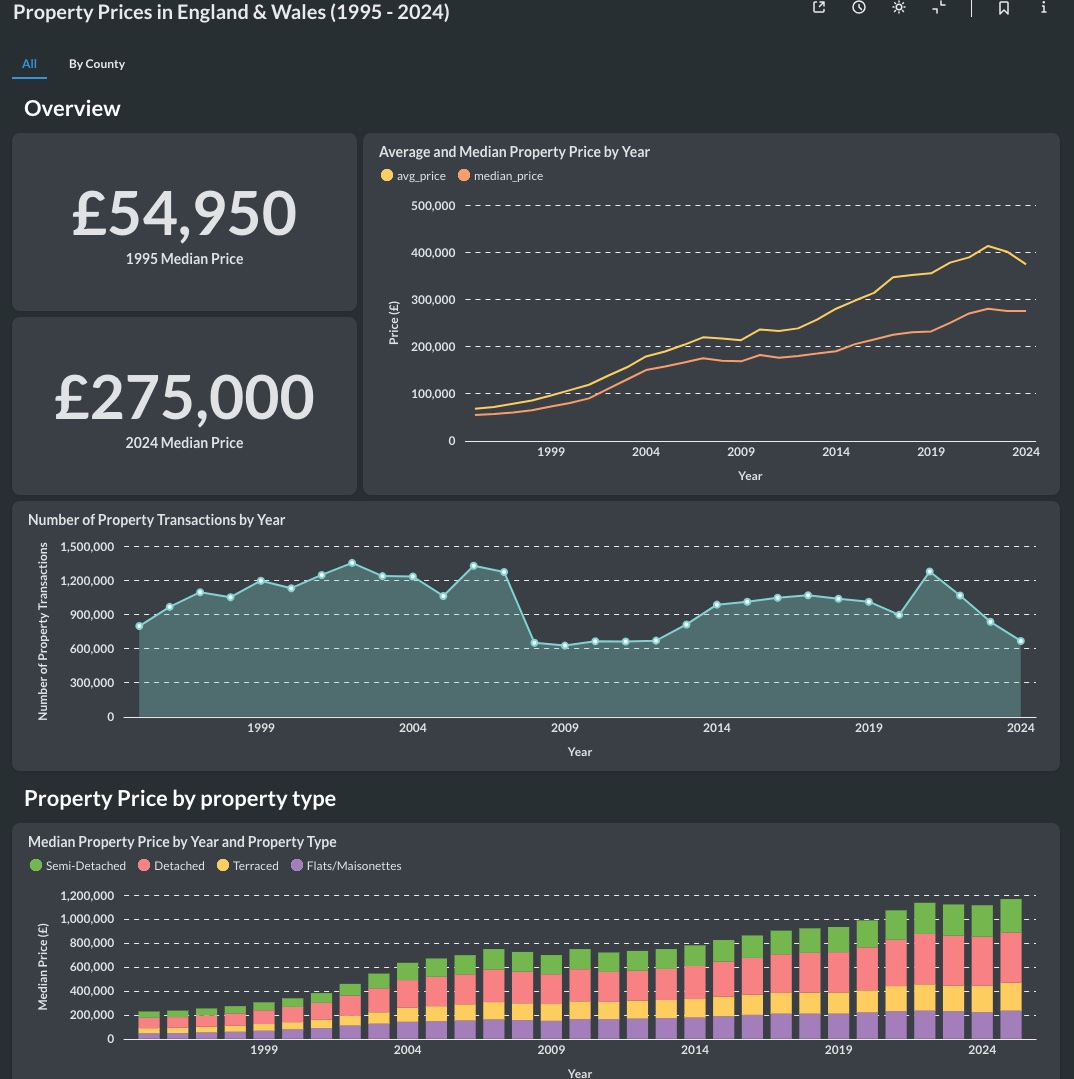
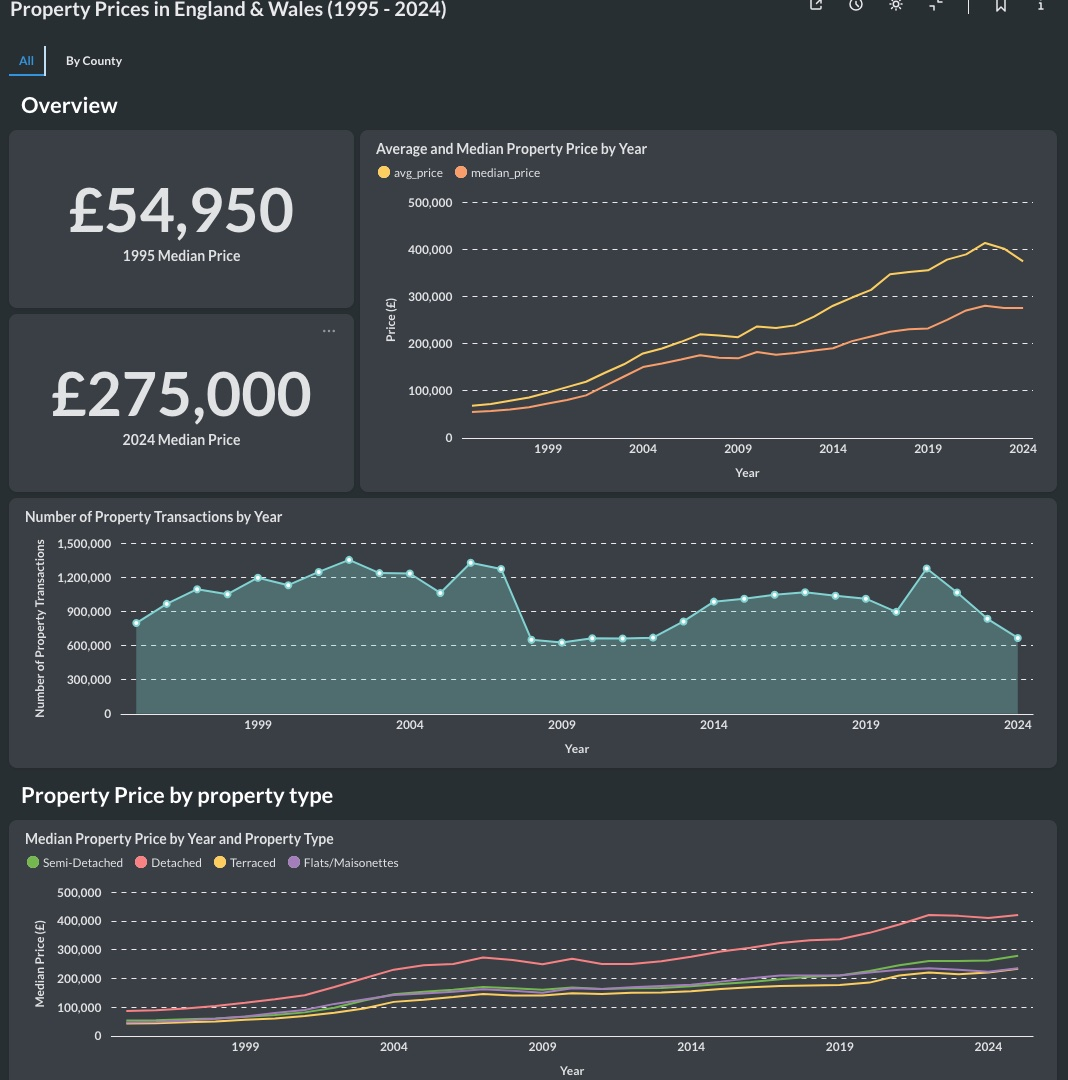
[dezc-housing] - change visualisation type from bar to line

diff --git a/03_visualisation/sql_queries.md b/03_visualisation/sql_queries.md
@@ -4,7 +4,7 @@ This is an overview of the Questions/SQL queries I created with Metabase's nativ
 
 I created two tabs on my dashboard: one that showed metrics for properties in England and Wales over the last 30 years and another that showed the same information filtered by location (County). Both dashboards contain the same tiles: the only difference between them is the filtering.
 
-**Before writing your SQL queries in the editor, M=make sure you have the correct database i.e. `Property Prices` (or whatever `Display Name` value you used during the BigQuery database connection setup).**
+**Before writing your SQL queries in the editor, make sure you have the correct database i.e. `Property Prices` (or whatever `Display Name` value you used during the BigQuery database connection setup).**
 
 ## Main dashboard (All)
 
@@ -91,7 +91,7 @@ AND property_type_name != 'Other'
 ORDER BY year;
 ```
 
-**Visualization**: Bar
+**Visualization**: Line
 
 **Visualization Cog**: Make sure the X-axis is `year` and the Y-axis is `median_price`. Then add another series (property_type_name) to show median price by property_type.
 
